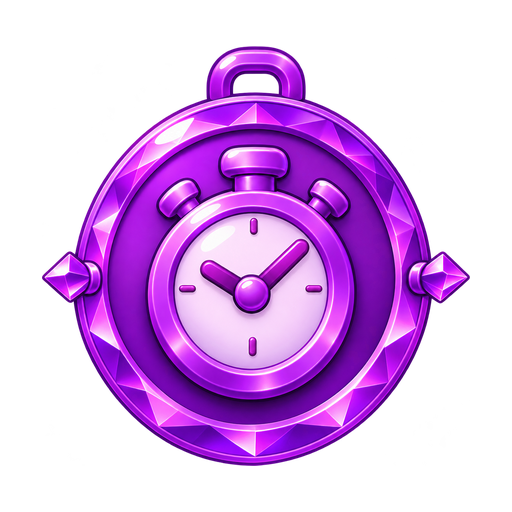
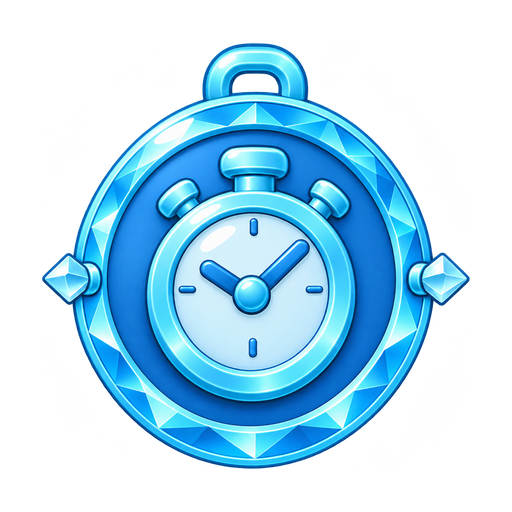
Diamant und Kristall in die Ranglisten-Grafiken übernehmen

diff --git a/Vorlage_Raw/Ranglisten_v1/LIESMICH_CLAUDE.md b/Vorlage_Raw/Ranglisten_v1/LIESMICH_CLAUDE.md
@@ -6,25 +6,27 @@ Die Symbole und Rahmen liegen als 512 × 512 Pixel große RGBA-PNGs vor. Der dic
 
 Bildschirmtexte, Platznummern, Rangzeiten und Spielernamen kommen aus dem Spiel. Nur das Modussymbol enthält das vereinbarte Unendlichkeitszeichen. `BILDANWEISUNG.txt` enthält die Erzeugungsanweisungen.
 
+Die Ligen steigen in dieser Reihenfolge auf: **Bronze → Silber → Gold → Diamant → Kristall → Galaxie → Legende**. Diamant ist eisblau und belegt Rang 4. Kristall ist violett und belegt Rang 5. Bei Überleben gehört Diamant zu 12 Minuten und Kristall zu 15 Minuten. Das Pokalsymbol und der Silberpokal entsprechen der freigegebenen Korrektur.
+
 | Datei | Motiv | Größe in Pixeln | Verwendung |
 |---|---|---|---|
 | `liga_bronze.png` | Einfaches bronzenes Schild mit Stern | 512 × 512 | Anzeige der Bronze-Liga |
 | `liga_silber.png` | Silberschild mit Stern und Flügelansätzen | 512 × 512 | Anzeige der Silber-Liga |
 | `liga_gold.png` | Goldschild mit Stern, Flügeln und kleiner Krone | 512 × 512 | Anzeige der Gold-Liga |
-| `liga_kristall.png` | Kristallschild mit Kristallflügeln und Krone | 512 × 512 | Anzeige der Kristall-Liga |
-| `liga_sternen.png` | Blaues Schild mit Sternenkranz, großen Flügeln und Krone | 512 × 512 | Anzeige der Sternen-Liga |
+| `liga_diamant.png` | Eisblaues Schild mit geschliffenem Diamanten, Flügeln und Krone | 512 × 512 | Anzeige der Diamant-Liga |
+| `liga_kristall.png` | Violettes Kristallschild mit großen Kristallflügeln und Edelsteinkrone | 512 × 512 | Anzeige der Kristall-Liga |
 | `liga_galaxie.png` | Magenta-Schild mit Spiralgalaxie und Edelsteinkrone | 512 × 512 | Anzeige der Galaxie-Liga |
 | `liga_legende.png` | Goldschild mit Ringplanet, goldenen Flügeln und Strahlenkranz | 512 × 512 | Anzeige der Legende-Liga |
-| `pokal_symbol.png` | Schlichter goldener Pokal | 512 × 512 | Pokalzahl in Leiste und Liste |
+| `pokal_symbol.png` | Seidenmatter Goldpokal mit flachem Sternrelief | 512 × 512 | Pokalzahl in Leiste und Liste |
 | `saisonpokal_1.png` | Goldener Siegerpokal mit Stern | 512 × 512 | Saisonende, Platz 1 |
-| `saisonpokal_2.png` | Silberner Siegerpokal mit Stern | 512 × 512 | Saisonende, Platz 2 |
+| `saisonpokal_2.png` | Silberner Siegerpokal mit kontrastreichem violettem Stern | 512 × 512 | Saisonende, Platz 2 |
 | `saisonpokal_3.png` | Bronzener Siegerpokal mit Stern | 512 × 512 | Saisonende, Platz 3 |
 | `saison_truhe.png` | Leicht geöffnete violett-goldene Truhe mit Pokal-Prägung | 512 × 512 | Belohnung zum Saisonwechsel |
 | `rahmen_bronze.png` | Bronzering mit Stern | 512 × 512 | Spielerbild der Bronze-Liga |
 | `rahmen_silber.png` | Silberring mit Stern und kleinen Flügeln | 512 × 512 | Spielerbild der Silber-Liga |
 | `rahmen_gold.png` | Goldring mit Flügeln und kleiner Krone | 512 × 512 | Spielerbild der Gold-Liga |
-| `rahmen_kristall.png` | Kristallring mit Kristallflügeln | 512 × 512 | Spielerbild der Kristall-Liga |
-| `rahmen_sternen.png` | Himmelblauer Ring mit Sternenkranz | 512 × 512 | Spielerbild der Sternen-Liga |
+| `rahmen_diamant.png` | Eisblauer Ring mit Diamantschmuck | 512 × 512 | Spielerbild der Diamant-Liga |
+| `rahmen_kristall.png` | Violetter Kristallring mit großen Kristallflügeln und Edelsteinkrone | 512 × 512 | Spielerbild der Kristall-Liga |
 | `rahmen_galaxie.png` | Magenta-Ring mit Flügeln und Edelsteinkrone | 512 × 512 | Spielerbild der Galaxie-Liga |
 | `rahmen_legende.png` | Goldring mit Regenbogenschimmer und Strahlenkranz | 512 × 512 | Spielerbild der Legende-Liga |
 | `rahmen_platz1.png` | Goldring mit großer Krone und Lorbeer | 512 × 512 | Erster Platz der Weltrangliste |
@@ -35,8 +37,7 @@ Bildschirmtexte, Platznummern, Rangzeiten und Spielernamen kommen aus dem Spiel.
 | `medaille_3min.png` | Bronzemedaille mit Stoppuhr | 512 × 512 | Überlebensrang, 3 Minuten |
 | `medaille_6min.png` | Silbermedaille mit Stoppuhr | 512 × 512 | Überlebensrang, 6 Minuten |
 | `medaille_9min.png` | Goldmedaille mit Stoppuhr | 512 × 512 | Überlebensrang, 9 Minuten |
-| `medaille_12min.png` | Violette Kristallmedaille mit Stoppuhr | 512 × 512 | Überlebensrang, 12 Minuten |
-| `medaille_15min.png` | Sternenblaue Medaille mit Stoppuhr | 512 × 512 | Überlebensrang, 15 Minuten |
+| `medaille_12min.png` | Diamant-eisblaue Medaille mit Stoppuhr | 512 × 512 | Überlebensrang, 12 Minuten |
+| `medaille_15min.png` | Kristall-violette Medaille mit Stoppuhr | 512 × 512 | Überlebensrang, 15 Minuten |
 | `medaille_20min.png` | Galaxie-pinke Medaille mit Stoppuhr und Flammenkranz | 512 × 512 | Überlebensrang, 20 Minuten |
 | `gegnersuche_hintergrund.png` | Dunkler Weltraum mit Radar und Lichtstrahl | 780 × 1688 | Hintergrund der Gegnersuche |
-
